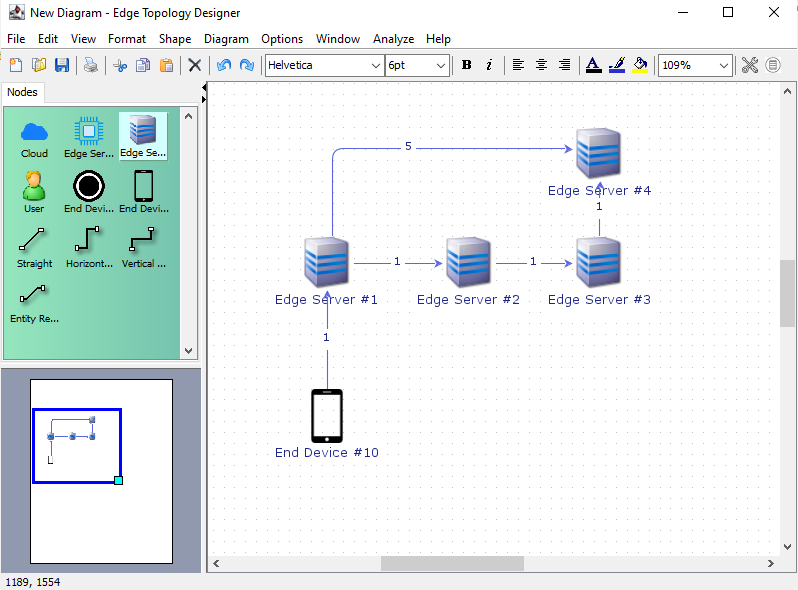
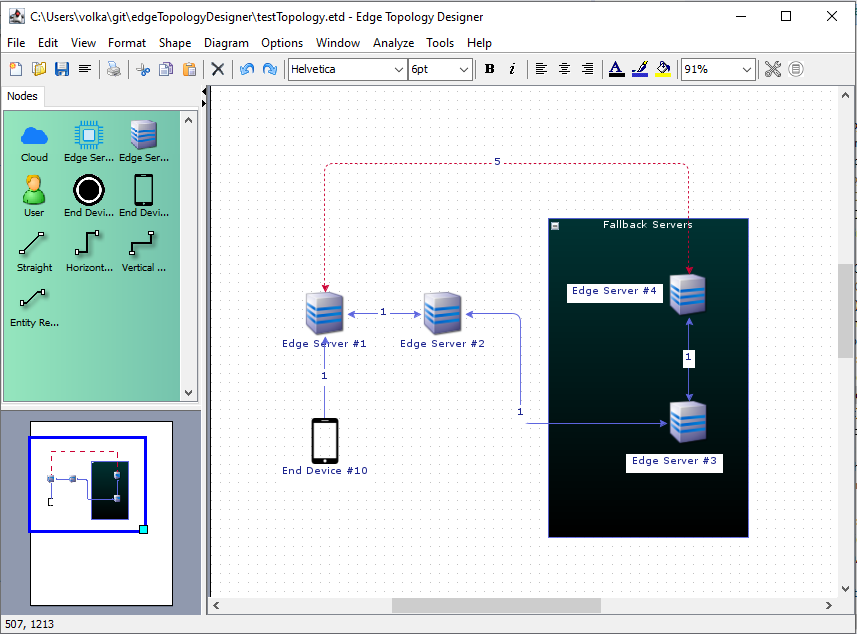
implement search functionality on groups as well
they were being ignored.
also add more icons for nodes.

Changed region(s): [[0.0, 0.0, 1.0, 1.0], [0.3308, 0.2136, 0.9023, 0.8542], [0.3308, 0.6102, 0.4812, 0.7932]]

diff --git a/src/com/mxgraph/io/mxObjectCodec.java b/src/com/mxgraph/io/mxObjectCodec.java
@@ -101,6 +101,8 @@ public class mxObjectCodec
 	public mxObjectCodec(Object template, String[] exclude, String[] idrefs,
 			Map<String, String> mapping)
 	{
+		System.setProperty("java.util.logging.SimpleFormatter.format",
+				"[%1$tF %1$tT] [%4$-7s] %5$s [Source: %2$s] %n");
 		this.template = template;
 
 		if (exclude != null)
@@ -666,7 +668,7 @@ public class mxObjectCodec
 
 		// Tries to get cached field
 		Field field = map.get(fieldname);
-
+		
 		if (field != null)
 		{
 			return field;
@@ -693,7 +695,7 @@ public class mxObjectCodec
 			type = type.getSuperclass();
 		}
 
-		log.severe("Field " + fieldname + " not found in " + obj);
+		//log.severe("Field " + fieldname + " not found in " + obj);
 		return null;
 	}
 
@@ -806,7 +808,6 @@ public class mxObjectCodec
 		if (obj != null && fieldname != null)
 		{
 			Field field = getField(obj, fieldname);
-
 			try
 			{
 				if (field != null)

diff --git a/src/com/mxgraph/view/mxGraph.java b/src/com/mxgraph/view/mxGraph.java
@@ -5119,7 +5119,7 @@ public class mxGraph extends mxEventSource
 		{
 			return "";
 		}
-
+		
 		// Checks if the connection is generally allowed
 		if (!isValidConnection(source, target))
 		{
@@ -7033,7 +7033,20 @@ public class mxGraph extends mxEventSource
 		{
 			if (isCellVisible(cells[i]))
 			{
-				result.add(cells[i]);
+				if(model.getServerId(cells[i]) == null) { // if server id is null, it is a group
+					
+					int groupChildrenCount = model.getChildCount(cells[i]); // get each group child to parse as a node
+					for (int j = 0; j < groupChildrenCount; j++) {
+						mxCell currentGroupChild = ((mxCell)model.getChildAt(cells[i], j));
+						if(currentGroupChild.getServerid() != null) {
+							result.add(currentGroupChild);
+						}
+					}
+				}
+				else {
+					result.add(cells[i]);	
+				}
+				
 			}
 		}
 

diff --git a/src/com/mxgraph/examples/swing/editor/EditorMenuBar.java b/src/com/mxgraph/examples/swing/editor/EditorMenuBar.java
@@ -979,13 +979,15 @@ public class EditorMenuBar extends JMenuBar {
 					{
 						
 						status = mxResources.get("connected");
+						JOptionPane.showMessageDialog(null, mxResources.get("diagramStatus", new String[] {status}), mxResources.get("information"),
+								JOptionPane.INFORMATION_MESSAGE);
 					}
 					else
 					{
-						status = mxResources.get("notconnected");
+						JOptionPane.showMessageDialog(null, mxResources.get("notConnected"), mxResources.get("error"), 
+								JOptionPane.ERROR_MESSAGE);
 					}
-					JOptionPane.showMessageDialog(null, mxResources.get("diagramStatus", new String[] {status}), mxResources.get("information"),
-							JOptionPane.INFORMATION_MESSAGE);
+
 				}
 				else if (analyzeType == AnalyzeType.IS_SIMPLE)
 				{

diff --git a/src/com/mxgraph/analysis/mxGraphStructure.java b/src/com/mxgraph/analysis/mxGraphStructure.java
@@ -366,7 +366,13 @@ public class mxGraphStructure
 		{
 			Object sourceVertex = components[i - 1][(int) Math.round(Math.random() * (components[i - 1].length - 1))];
 			Object targetVertex = components[i][(int) Math.round(Math.random() * (components[i].length - 1))];
-			graph.insertEdge(parent, null, aGraph.getGenerator().getNewEdgeValue(aGraph), sourceVertex, targetVertex);
+			if(((mxCell)targetVertex).getServerid() != null) {
+				graph.insertEdge(parent, null, aGraph.getGenerator().getNewEdgeValue(aGraph), sourceVertex, targetVertex);	
+			}
+			else {
+				System.out.println("NULL FOUND");
+			}
+			
 		}
 	};
 

diff --git a/src/com/mxgraph/examples/swing/editor/GraphConfigDialog.java b/src/com/mxgraph/examples/swing/editor/GraphConfigDialog.java
@@ -12,6 +12,7 @@ import java.awt.GridLayout;
 import java.awt.event.ActionEvent;
 import java.awt.event.ActionListener;
 import java.util.Map;
+import java.util.Arrays;
 import java.util.HashMap;
 
 import javax.swing.BorderFactory;
@@ -224,7 +225,7 @@ public class GraphConfigDialog extends JDialog {
 
 					// Fetch All Vertices
 					Object[] vertex = aGraph.getChildVertices(graph.getDefaultParent());
-
+System.out.println("all vertices: " + Arrays.toString(vertex));
 					// Loop through all Vertices
 					for (int i = 0; i < vertex.length; i++) {
 

diff --git a/src/com/mxgraph/io/mxGdCodec.java b/src/com/mxgraph/io/mxGdCodec.java
@@ -208,7 +208,7 @@ public class mxGdCodec
 				
 				// If it is only a node
 				if ((nNode.getNodeType() == Node.ELEMENT_NODE) && !eElement.hasAttribute("edge")
-						&& eElement.hasAttribute("value")) {
+						&& eElement.hasAttribute("value") && eElement.hasAttribute("serverid")) {
 					
 					try {
 						if(!serverList.contains(eElement.getAttribute("serverid"))) {
